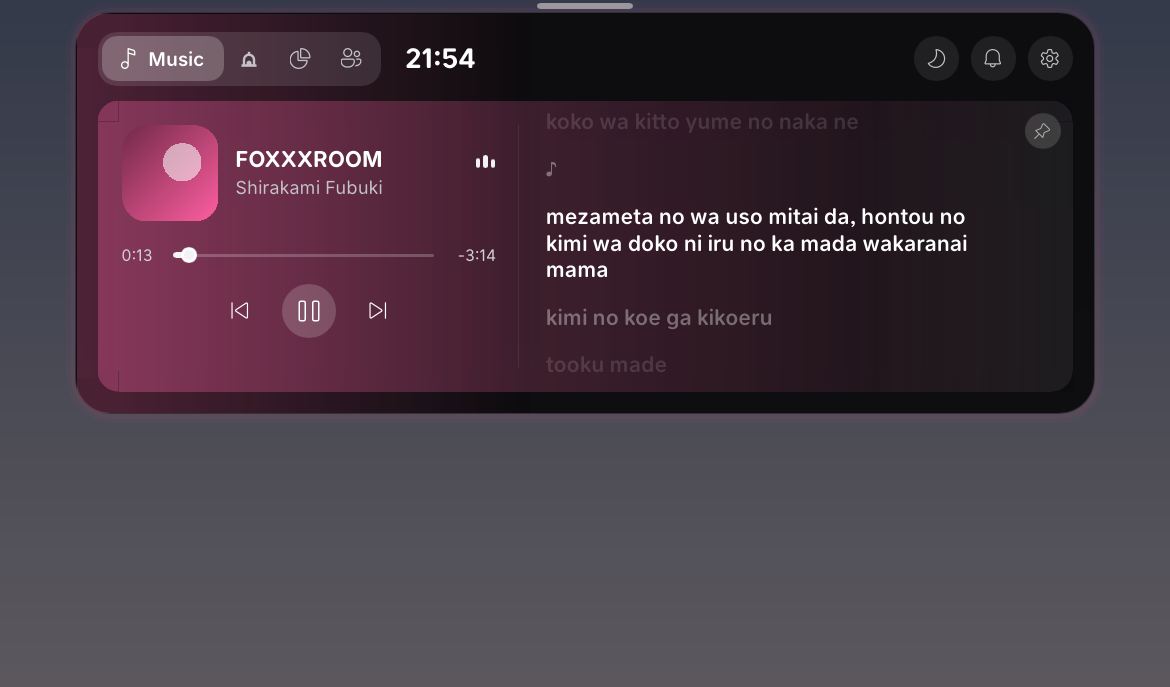
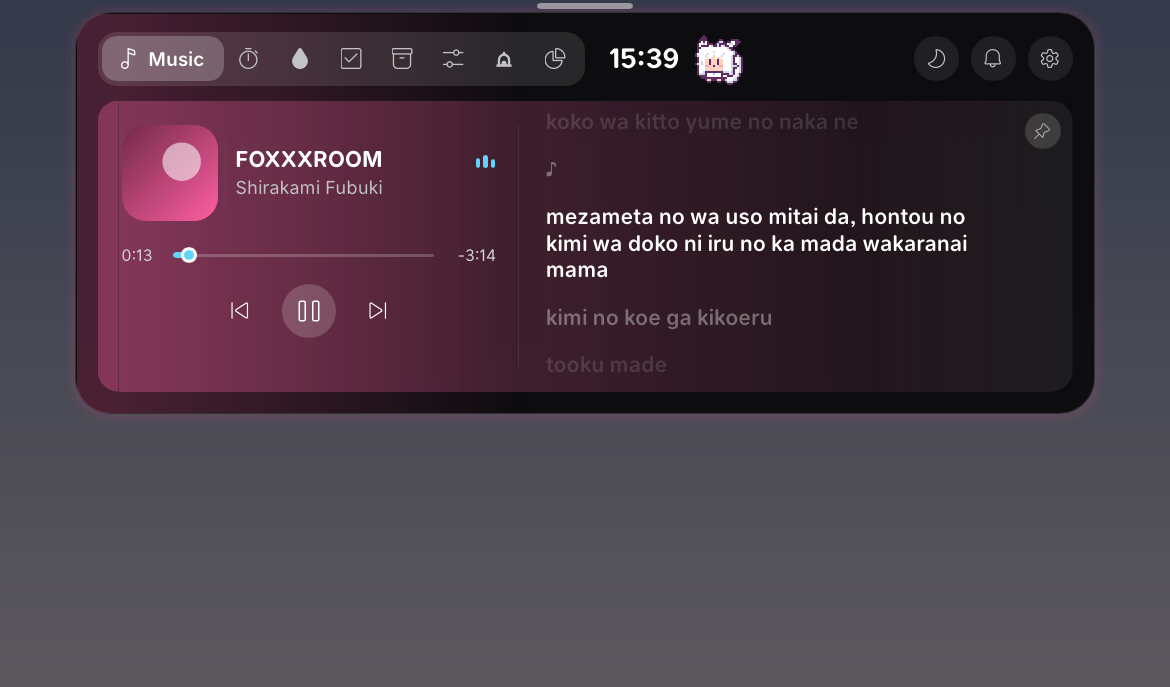
docs: screenshots of this build, with the mascot
Music, Notifications, Focus, To-do and Settings > Appearance taken from
snapshots with demo data. Kanmuri's Accounts and Control pictures go: the
first showed its made-up accounts, the second a PC's real audio devices;
Control is described in words instead.

diff --git a/README.md b/README.md
@@ -33,9 +33,9 @@ The open island has one bar on top: the tabs, the time, the mascot, and round bu
 | ![Notifications](docs/screens/notifications.png) | **Notifications**: Windows notifications, mirrored on the island, with each app's own icon. One app shows two at most, so a busy chat can't fill the page. A click opens the app. A switch per app in Settings. While the module is on, Windows' own pop-up banners stay off for those apps (they still reach Windows' notification centre); turning the module off, or quitting FubuNotch, puts every app back as it was. **Do not disturb** keeps the island down for notifications, calls excepted; it comes on by itself while a Focus round runs. |
 | ![Focus](docs/screens/focus.png) | **Focus** and **Water**: Pomodoro rounds and breaks with a log of how long each round really was; a glass at a time toward a daily goal, reminders after a while without one, only inside your active hours. |
 | ![To-do](docs/screens/todo.png) | **To-do** and **Shelf**: tick to strike through (done ones sink to the bottom), drag the dots to reorder, a log of what you cleared; drop files on the island to keep them handy (only their place is remembered). |
-| ![Control](docs/screens/control.png) | **Control**: volume and brightness sliders; switches for Wi-Fi, Bluetooth, the microphone, keep awake, dark mode and lock; the weather (Open-Meteo, off until you turn it on); which output and which microphone are in use. |
 
 Also:
+- **Control**: volume and brightness sliders; switches for Wi-Fi, Bluetooth, the microphone, keep awake, dark mode and lock; the weather (Open-Meteo, off until you turn it on); which output and which microphone are in use.
 - **Idle island sides**: next to the time, pick the date, network, battery, the next prayer, CPU, RAM or disk (Settings → General).
 - **Prayer**: today's prayer times (Kemenag method), worked out on your PC, with a reminder before each.
 - **Day Progress**: how much of your waking day, week, month and year has gone, and what comes next.
